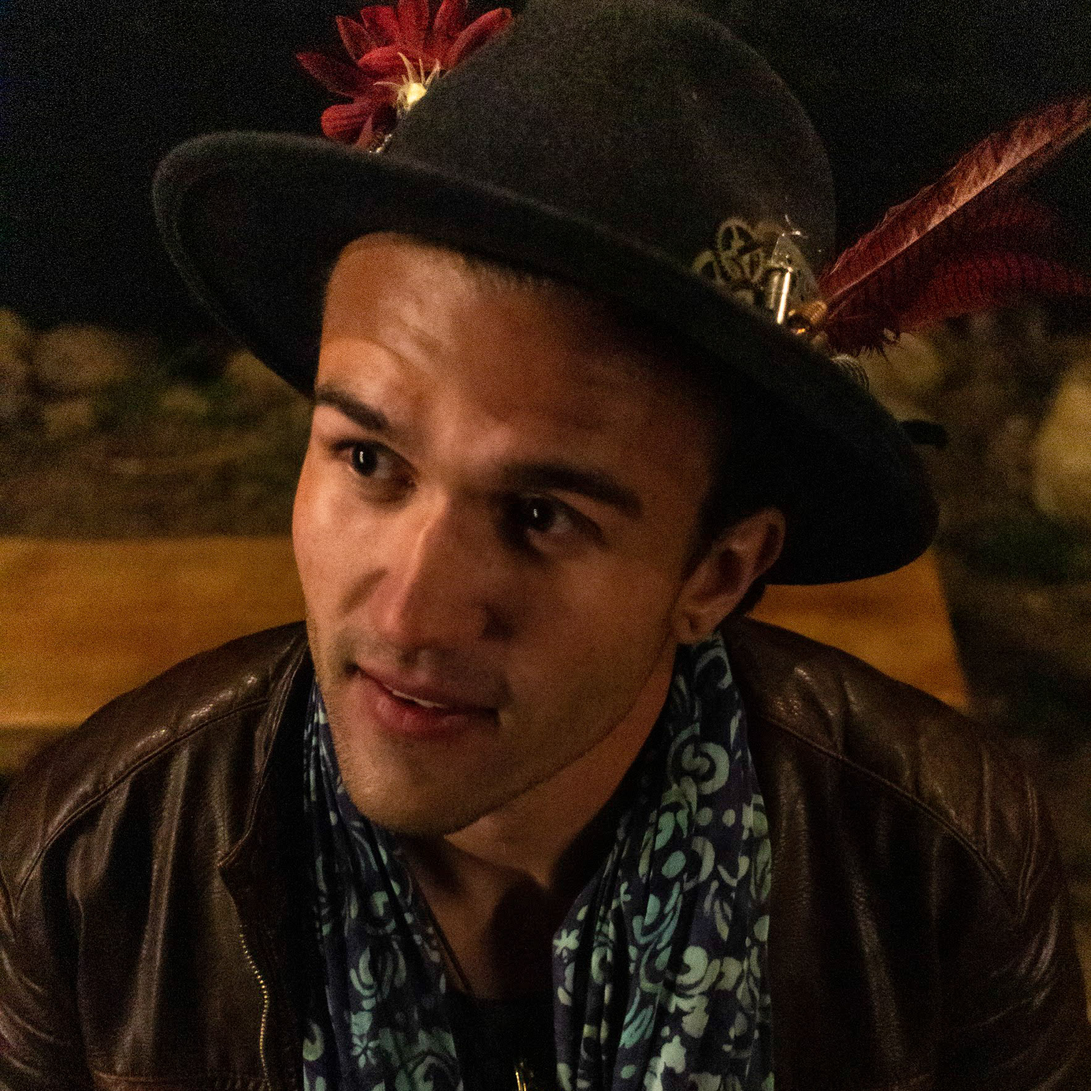
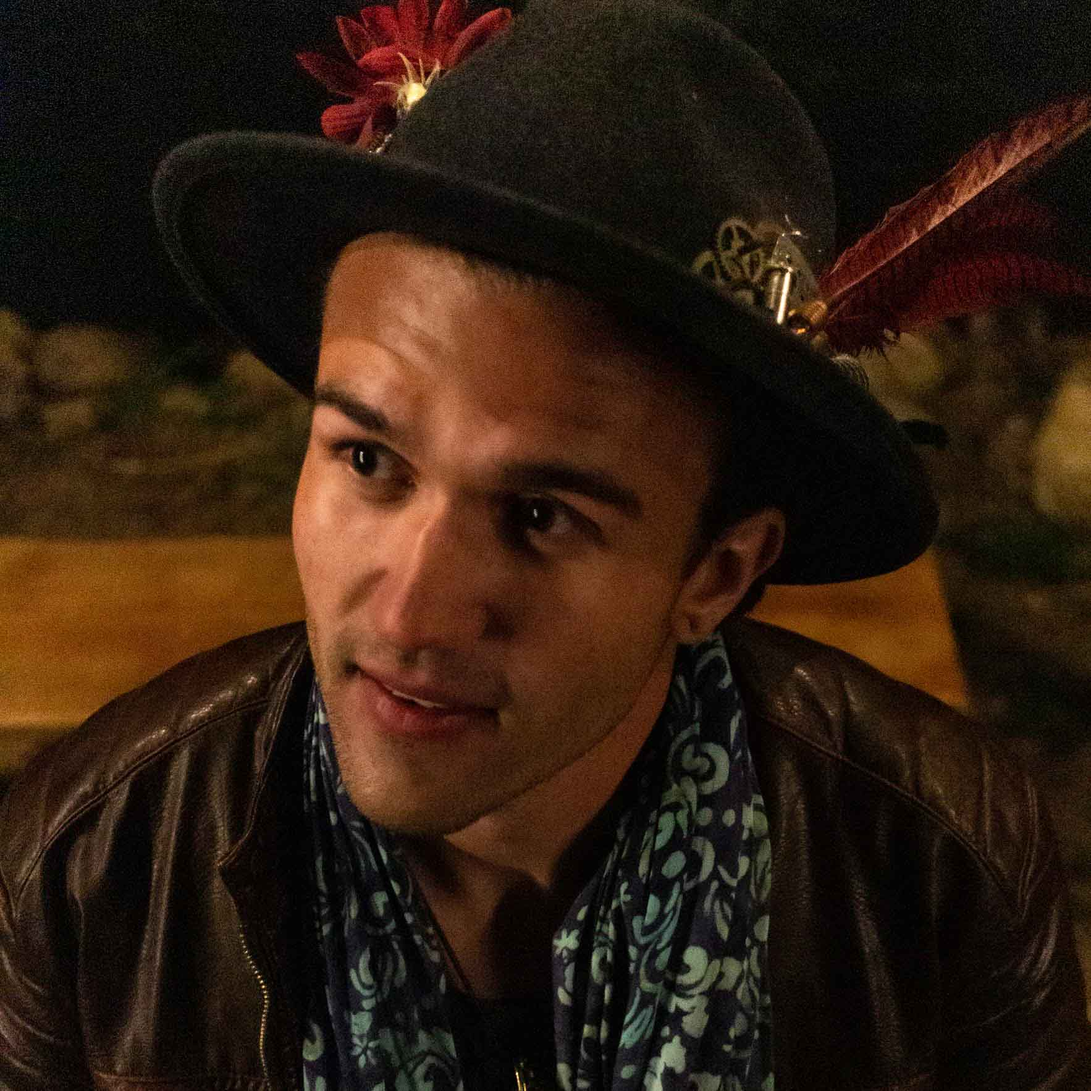
made images smaller, change description

diff --git a/client/src/components/DevProjects.js b/client/src/components/DevProjects.js
@@ -1,12 +1,12 @@
 import React from 'react'
 
-import blissed from "../images/blissed-out-body-work.png"
+import blissed from "../images/blissed-out-body-work.jpg"
 import pettingill from "../images/pettingill-industries.png"
 import cssZen from "../images/css-zen-garden.png"
-import studio from "../images/studio-films.png"
+import studio from "../images/studio-films.jpg"
 import bounty from "../images/original-bounty.png"
-import business from "../images/business-time.png"
-import mario from "../images/mario-pest.png"
+import business from "../images/business-time.jpg"
+import mario from "../images/mario-pest.jpg"
 
 import blissedMain from "../images/blissed.png"
 import pettingillMain from "../images/pettingill.png"

diff --git a/client/public/index.html b/client/public/index.html
@@ -6,8 +6,8 @@
     <meta name="viewport" content="width=device-width, initial-scale=1" />
     <meta name="theme-color" content="#000000" />
     <meta
-      name="description"
-      content="Web site created using create-react-app"
+      name="Intro"
+      content="Professional Dev Portfolio"
     />
     <link rel="apple-touch-icon" href="%PUBLIC_URL%/logo192.png" />
     <!--
